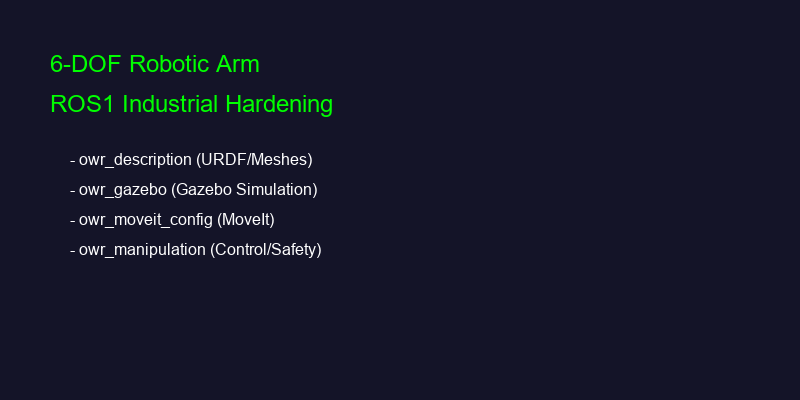
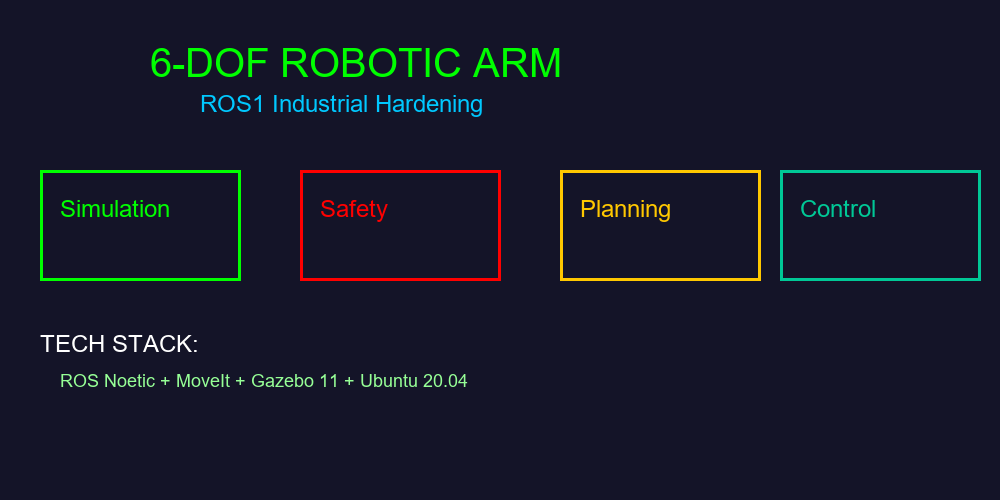
Fix base_link URDF mesh reference, add robot model preview and architecture diagrams

diff --git a/README.md b/README.md
@@ -40,6 +40,22 @@ ROS 2 migration is planned but requires re-validation of all safety certificatio
 ### Robot Model
 The robot URDF/Xacro model is included in `owr_description/urdf/`. Meshes are under `owr_description/meshes/`. The model is loaded via `owr_gazebo/robot_6dof_gazebo_spawn.launch`.
 
+<img src="images/robot_model_preview.png" width=800>
+
+The 6-DOF kinematic chain consists of 7 links:
+
+| Link | Mesh (collision) | Role |
+|------|------------------|------|
+| base_link | `base_link.STL` | Fixed base |
+| BS_Link | `BS_Link.STL` | Base shoulder (BJ) |
+| SE_Link | `SE_Link.STL` | Shoulder-elbow (SJ/EJ) |
+| EW1_Link | `EW1_Link.STL` | Elbow-wrist 1 (EJ/W1J) |
+| W12_Link | `W12_Link.STL` | Wrist 1-2 (W1J/W2J) |
+| W23_Link | `W23_Link.STL` | Wrist 2-3 (W2J/W3J) |
+| W3Eff_Link | `W3Eff_Link.STL` | Wrist 3-end effector (W3J) |
+
+Gripper meshes (Robotiq Arg2f 140) are under `owr_description/meshes/gripper/`.
+
 ### Installation
 Clone the repository using:
 
